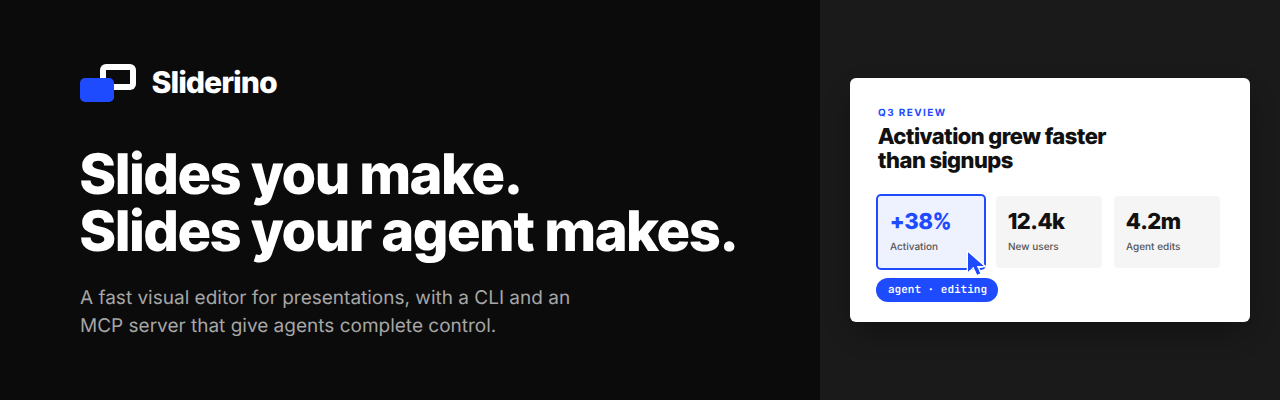
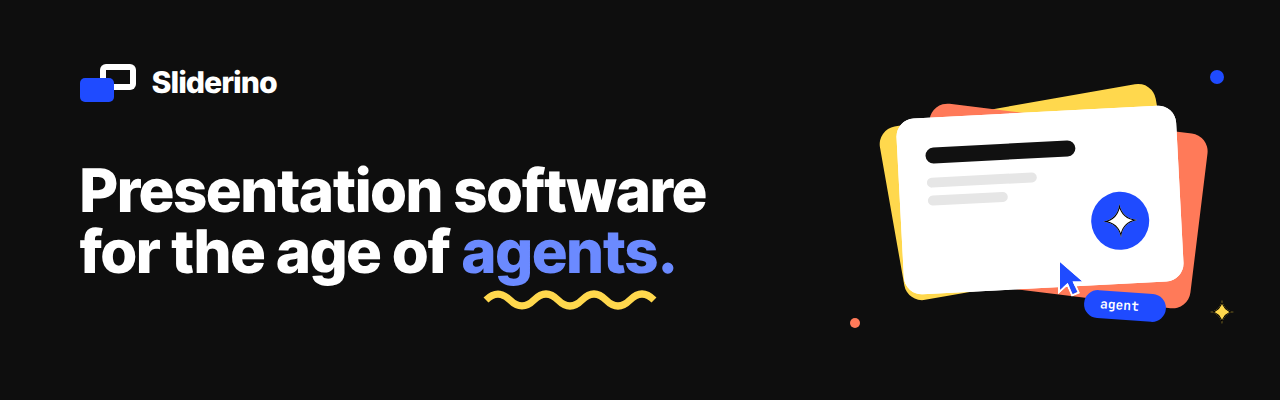
feat(ui): remove the components tab and the insert component tool

Changed region(s): [[0.0625, 0.36, 0.5938, 0.84], [0.6562, 0.18, 1.0, 0.81]]

diff --git a/src/ui/canvas.rs b/src/ui/canvas.rs
@@ -2649,7 +2649,7 @@ fn tool_button(tool: Tool, active: bool, cx: &mut Context<EditorView>) -> impl I
 
 impl Tool {
     /// Tools in palette order; a divider separates each group.
-    const GROUPS: [&[Tool]; 3] = [
+    const GROUPS: [&[Tool]; 2] = [
         &[Tool::Move, Tool::Hand],
         &[
             Tool::Text,
@@ -2659,7 +2659,6 @@ impl Tool {
             Tool::Table,
             Tool::Image,
         ],
-        &[Tool::Component],
     ];
 
     fn id(self) -> &'static str {
@@ -2672,7 +2671,6 @@ impl Tool {
             Tool::Line => "tool-line",
             Tool::Table => "tool-table",
             Tool::Image => "tool-image",
-            Tool::Component => "tool-component",
         }
     }
 
@@ -2686,7 +2684,6 @@ impl Tool {
             Tool::Line => "Line",
             Tool::Table => "Table",
             Tool::Image => "Image",
-            Tool::Component => "Insert component",
         }
     }
 
@@ -2700,7 +2697,6 @@ impl Tool {
             Tool::Line => IconName::Slash,
             Tool::Table => IconName::Table,
             Tool::Image => IconName::Image,
-            Tool::Component => IconName::Component,
         }
     }
 }

diff --git a/src/ui/slides_panel.rs b/src/ui/slides_panel.rs
@@ -1,5 +1,4 @@
-//! Left panel: slide thumbnails, later the component library, and the
-//! hierarchy of the current slide.
+//! Left panel: slide thumbnails and the hierarchy of the current slide.
 //!
 //! Thumbnails select slides (Ctrl and Shift select more than one), open a
 //! menu to add, duplicate or delete them, and drag to change their order.
@@ -76,7 +75,7 @@ impl EditorView {
 
 pub fn slides_panel(editor: &mut EditorView, cx: &mut Context<EditorView>) -> impl IntoElement {
     let _span = crate::perf::span("slides_panel");
-    let hierarchy = editor.library_tab == 2;
+    let hierarchy = editor.library_tab == 1;
     let slides: Vec<_> = editor
         .presentation
         .slides
@@ -112,7 +111,6 @@ pub fn slides_panel(editor: &mut EditorView, cx: &mut Context<EditorView>) -> im
                     cx.notify();
                 }))
                 .child(Tab::new().label("Slides"))
-                .child(Tab::new().label("Components"))
                 .child(Tab::new().label("Hierarchy"))
                 .when(!hierarchy, |this| {
                     this.suffix(

diff --git a/src/editor.rs b/src/editor.rs
@@ -53,7 +53,6 @@ pub enum Tool {
     Line,
     Table,
     Image,
-    Component,
 }
 
 gpui_kit::actions!(editor, [NextCell, PreviousCell]);
@@ -472,7 +471,7 @@ pub struct EditorView {
     pub slide_anchor: SlideId,
     /// Where the slides dragged in the slides panel would land.
     pub slide_drop: Option<(SlideId, crate::ui::slides_panel::SlideDrop)>,
-    /// Tab of the left panel: 0 = Slides, 1 = Components, 2 = Hierarchy.
+    /// Tab of the left panel: 0 = Slides, 1 = Hierarchy.
     pub library_tab: usize,
     /// Tab of the right panel: 0 = Design, 1 = Notes, 2 = History.
     pub inspector_tab: usize,

diff --git a/src/ui/hierarchy_tests.rs b/src/ui/hierarchy_tests.rs
@@ -49,7 +49,7 @@ fn scene(cx: &mut TestAppContext) -> Scene {
         .unwrap();
     presentation.apply(Operation::Batch(operations)).unwrap();
     let handle = open_with(cx, presentation);
-    with_editor(cx, handle, |editor, _| editor.library_tab = 2);
+    with_editor(cx, handle, |editor, _| editor.library_tab = 1);
     Scene {
         handle,
         group,

diff --git a/src/ui/hierarchy_panel.rs b/src/ui/hierarchy_panel.rs
@@ -238,7 +238,7 @@ impl EditorView {
             state.focus(window, cx);
             state.select_all(window, cx);
         });
-        self.library_tab = 2;
+        self.library_tab = 1;
         self.renaming = Some(Renaming {
             id,
             input,

diff --git a/src/assets.rs b/src/assets.rs
@@ -16,7 +16,6 @@ icon_assets!(
         Circle,
         Slash,
         Image,
-        Component,
         Play,
         Plus,
         AlignStartVertical,

diff --git a/README.md b/README.md
@@ -3,7 +3,7 @@
 <p align="center">
   <picture>
     <source media="(prefers-color-scheme: dark)" srcset="docs/assets/banner-dark.png">
-    <img src="docs/assets/banner-light.png" alt="Sliderino — Slides you make. Slides your agent makes.">
+    <img src="docs/assets/banner-light.png" alt="Sliderino — Presentation software for the age of agents.">
   </picture>
 </p>
 

diff --git a/CHANGELOG.md b/CHANGELOG.md
@@ -7,6 +7,11 @@
 - The Sliderino website at <https://sliderino.embornal.com>, with the
   documentation at <https://sliderino.embornal.com/docs/>.
 
+### Removed
+
+- The Components tab of the left panel and the Insert component button of the
+  toolbar. They did not do an operation.
+
 ## [0.1.0] - 2026-09-28
 
 ### Added
